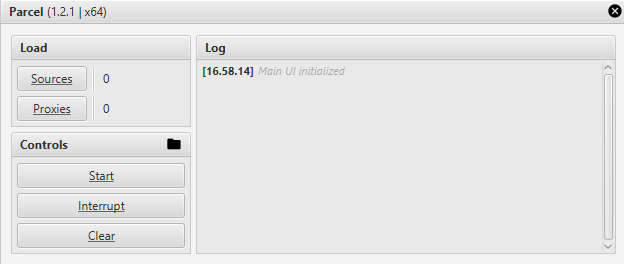
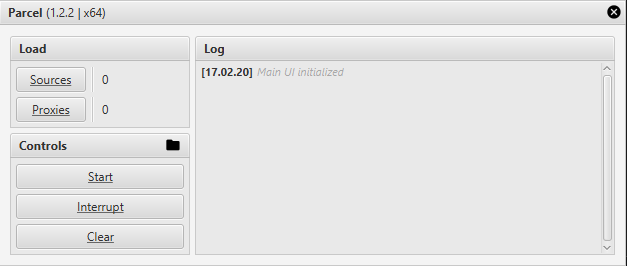
Fixed working directory creation failure

Changed region(s): [[0.0, 0.0, 1.0, 1.0]]

diff --git a/src/main/java/org/bsoftware/parcel/controllers/MainController.java b/src/main/java/org/bsoftware/parcel/controllers/MainController.java
@@ -95,13 +95,13 @@ public class MainController implements DataLoadingCallback, BruteForceCallback
 
             FileSystemUtility.createWorkingDirectory();
             ThreadContainer.startBruteForceThreads(new BruteForceRunnable(this));
+
+            logViewLog.log(LogLevel.INFO, "Work started");
         }
         catch (final URISyntaxException | IOException exception)
         {
             logViewLog.log(LogLevel.ERROR, "Can't create working directory");
         }
-
-        logViewLog.log(LogLevel.INFO, "Work started");
     }
 
     /**

diff --git a/src/main/java/org/bsoftware/parcel/utilities/FileSystemUtility.java b/src/main/java/org/bsoftware/parcel/utilities/FileSystemUtility.java
@@ -100,7 +100,7 @@ public final class FileSystemUtility
      */
     public static void createWorkingDirectory() throws URISyntaxException, IOException
     {
-        workingDirectory = Files.createDirectory(getApplicationPath()).resolve(String.format("../results [%s]", OperatingSystemUtility.getFormattedCurrentTime()));
+        workingDirectory = Files.createDirectory(getApplicationPath().resolve(String.format("../results [%s]", OperatingSystemUtility.getFormattedCurrentTime())));
     }
 
     /**
